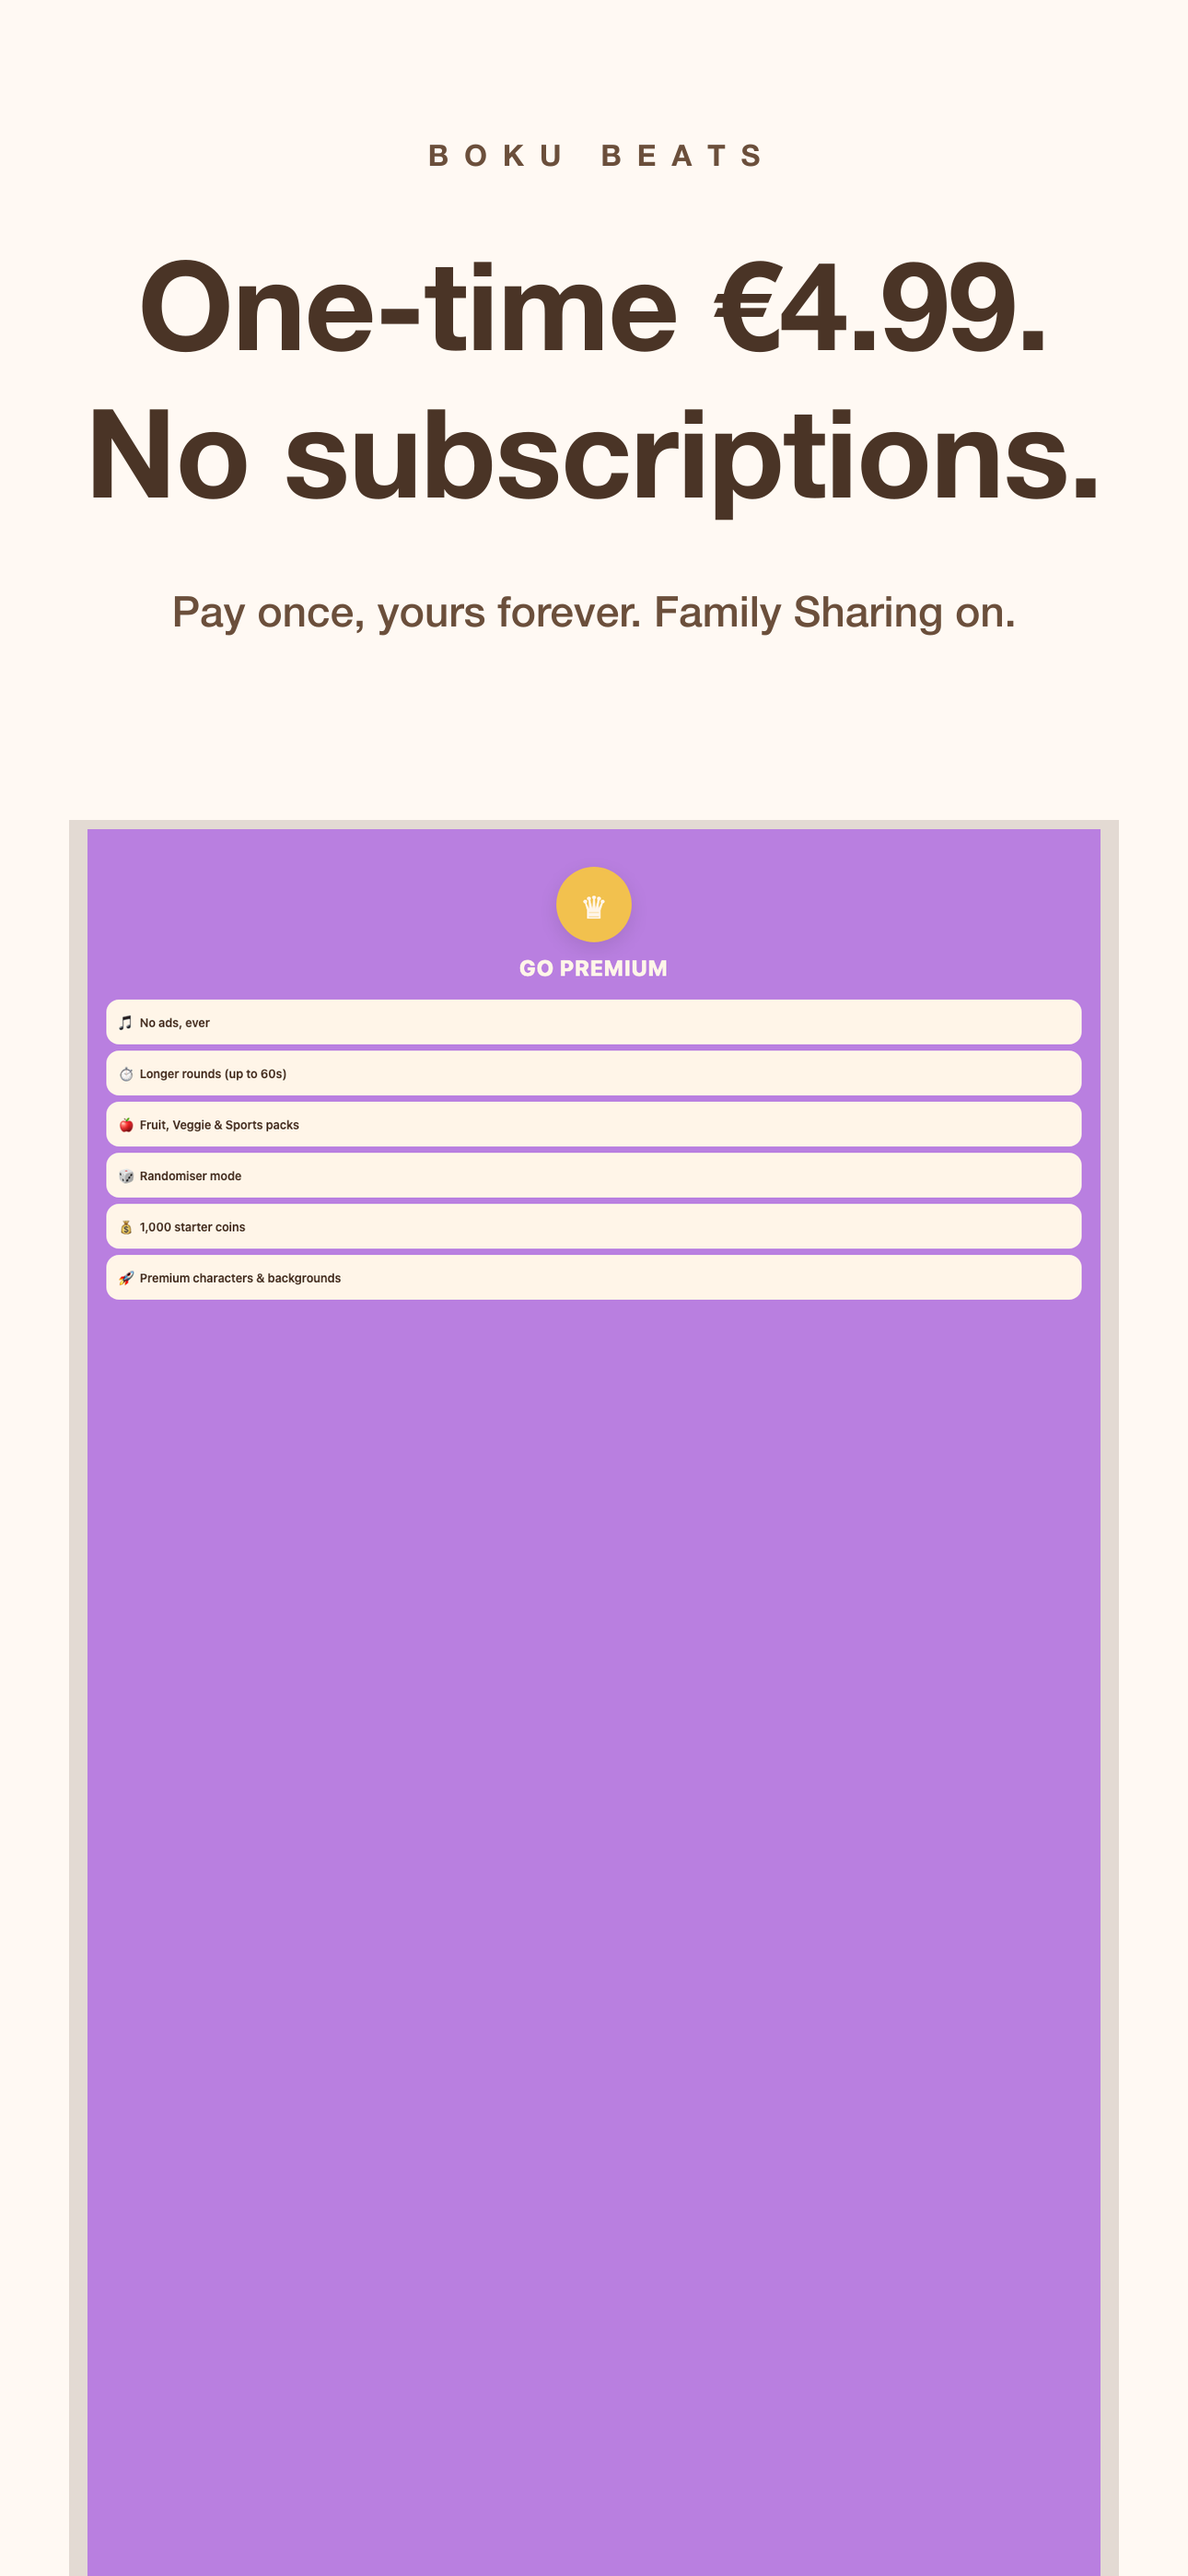
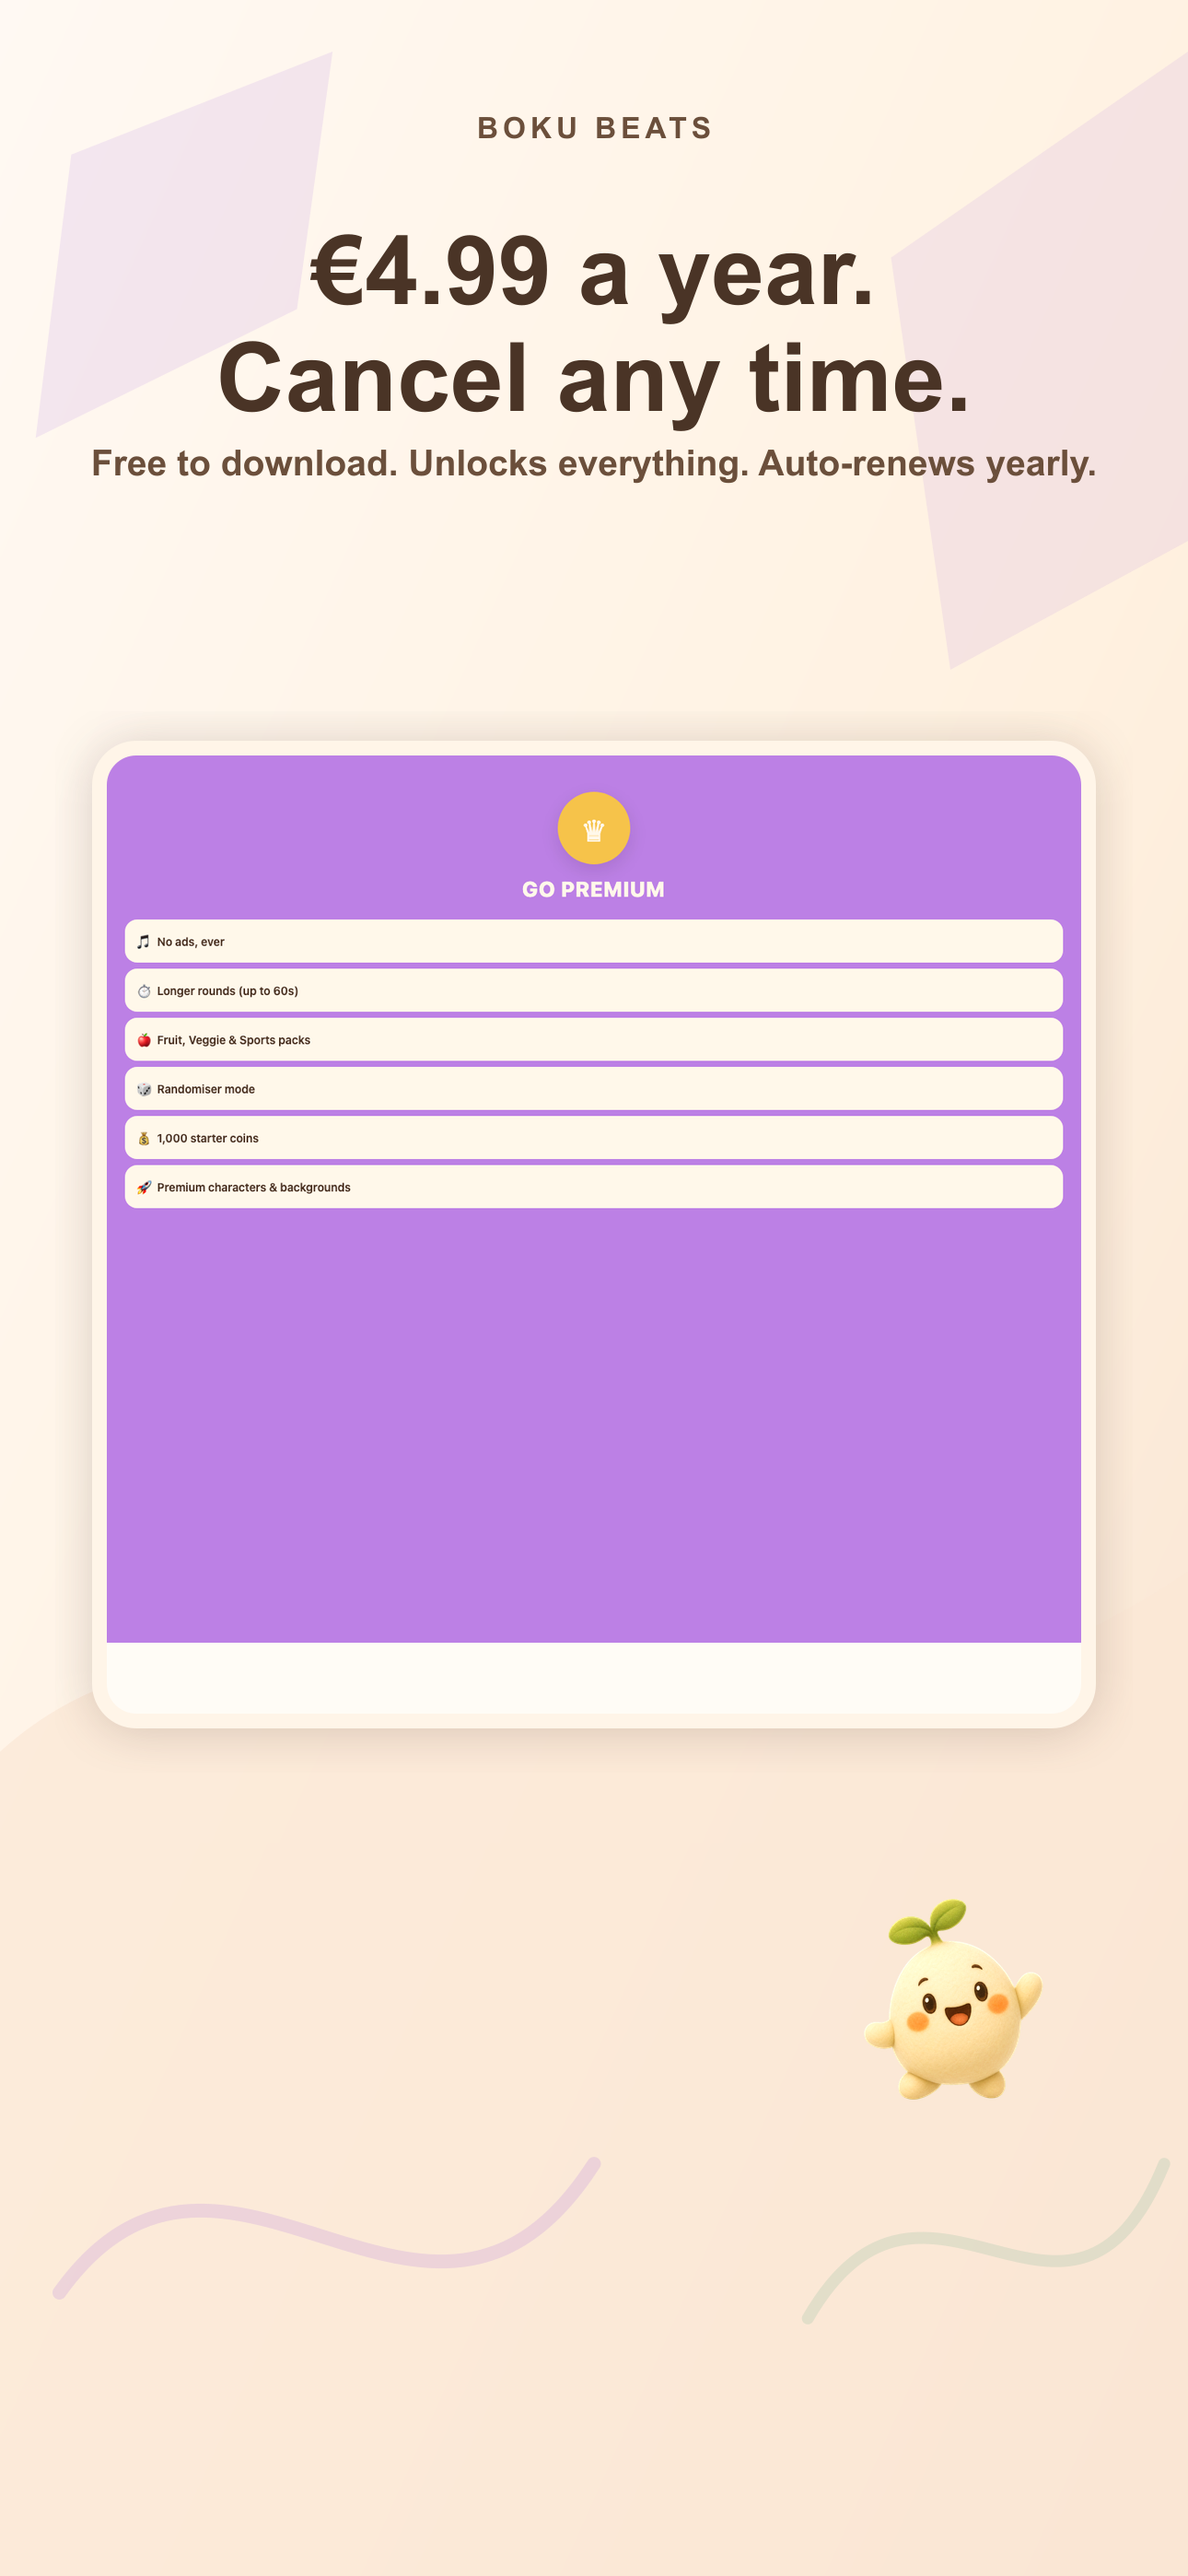
Marketing site: switch pricing copy to annual subscription
- Pricing block headline 'Honest, one-time pricing.' -> 'One simple
  subscription.' Subtitle now mentions cancel-any-time and Apple ID.
- Premium card: 'Premium . one-time' -> 'Premium . annual'; amount shows
  '€4.99 /year'; body explains weekly equivalent + cancel path; bullet
  added: 'Auto-renews yearly until cancelled.'
- Footer CTA copy aligned: 'one-time' -> 'a year'.
- Gallery caption: 'One-time Premium' -> 'Annual Premium'.
- media/09-premium.png: refreshed marketing screenshot generated from
  the new annual copy in scripts/marketing-screenshots.js.

diff --git a/index.html b/index.html
@@ -391,7 +391,7 @@
       <figure><img src="./media/07-results.png" alt="Round results with stars and coins" /><figcaption>Stars and combos</figcaption></figure>
       <figure><img src="./media/08-collection.png" alt="Collection of unlockable Boku looks" /><figcaption>Collection</figcaption></figure>
       <figure><img src="./media/10-custom.png" alt="Custom round builder" /><figcaption>Custom rounds</figcaption></figure>
-      <figure><img src="./media/09-premium.png" alt="Boku Beats Premium upgrade" /><figcaption>One-time Premium</figcaption></figure>
+      <figure><img src="./media/09-premium.png" alt="Boku Beats Premium upgrade" /><figcaption>Annual Premium</figcaption></figure>
       <figure><img src="./media/01-home.png" alt="Home screen" /><figcaption>Home</figcaption></figure>
     </div>
   </div>
@@ -399,8 +399,8 @@
 
 <section id="pricing">
   <div class="wrap">
-    <h2>Honest, one-time pricing.</h2>
-    <p class="sub">No subscriptions. No tricks. Free to download, with one optional upgrade that lasts forever.</p>
+    <h2>One simple subscription.</h2>
+    <p class="sub">Free to download. €4.99 a year unlocks everything — and you can cancel any time from your Apple ID settings.</p>
     <div class="pricing">
       <div class="price">
         <h3>Free</h3>
@@ -414,14 +414,15 @@
         </ul>
       </div>
       <div class="price feature-card">
-        <h3>Premium · one-time</h3>
-        <div class="amount">€4.99</div>
-        <p>Pay once. Yours forever, on every device signed in to your Apple ID.</p>
+        <h3>Premium · annual</h3>
+        <div class="amount">€4.99<span style="font-size:18px;font-weight:600;color:var(--ink-soft);"> /year</span></div>
+        <p>Less than a tenth of a euro per week. Cancel any time in your Apple ID subscription settings.</p>
         <ul>
           <li>No ads, anywhere</li>
           <li>Custom rounds: pick duration, symbols, packs</li>
           <li>All premium symbol packs included</li>
           <li>Family Sharing supported</li>
+          <li>Auto-renews yearly until cancelled</li>
         </ul>
       </div>
     </div>
@@ -464,7 +465,7 @@
 <section id="download">
   <div class="wrap" style="text-align:center;">
     <h2 style="margin-bottom: 16px;">Ready to play?</h2>
-    <p class="sub" style="margin-left:auto; margin-right:auto;">Boku Beats is launching on the App Store. iPhone and iPad. Free to play, €4.99 one-time to go Premium.</p>
+    <p class="sub" style="margin-left:auto; margin-right:auto;">Boku Beats is launching on the App Store. iPhone and iPad. Free to play, €4.99 a year for Premium.</p>
     <a class="btn btn-primary" href="#" id="appstore-link">Coming soon to the App Store</a>
   </div>
 </section>
